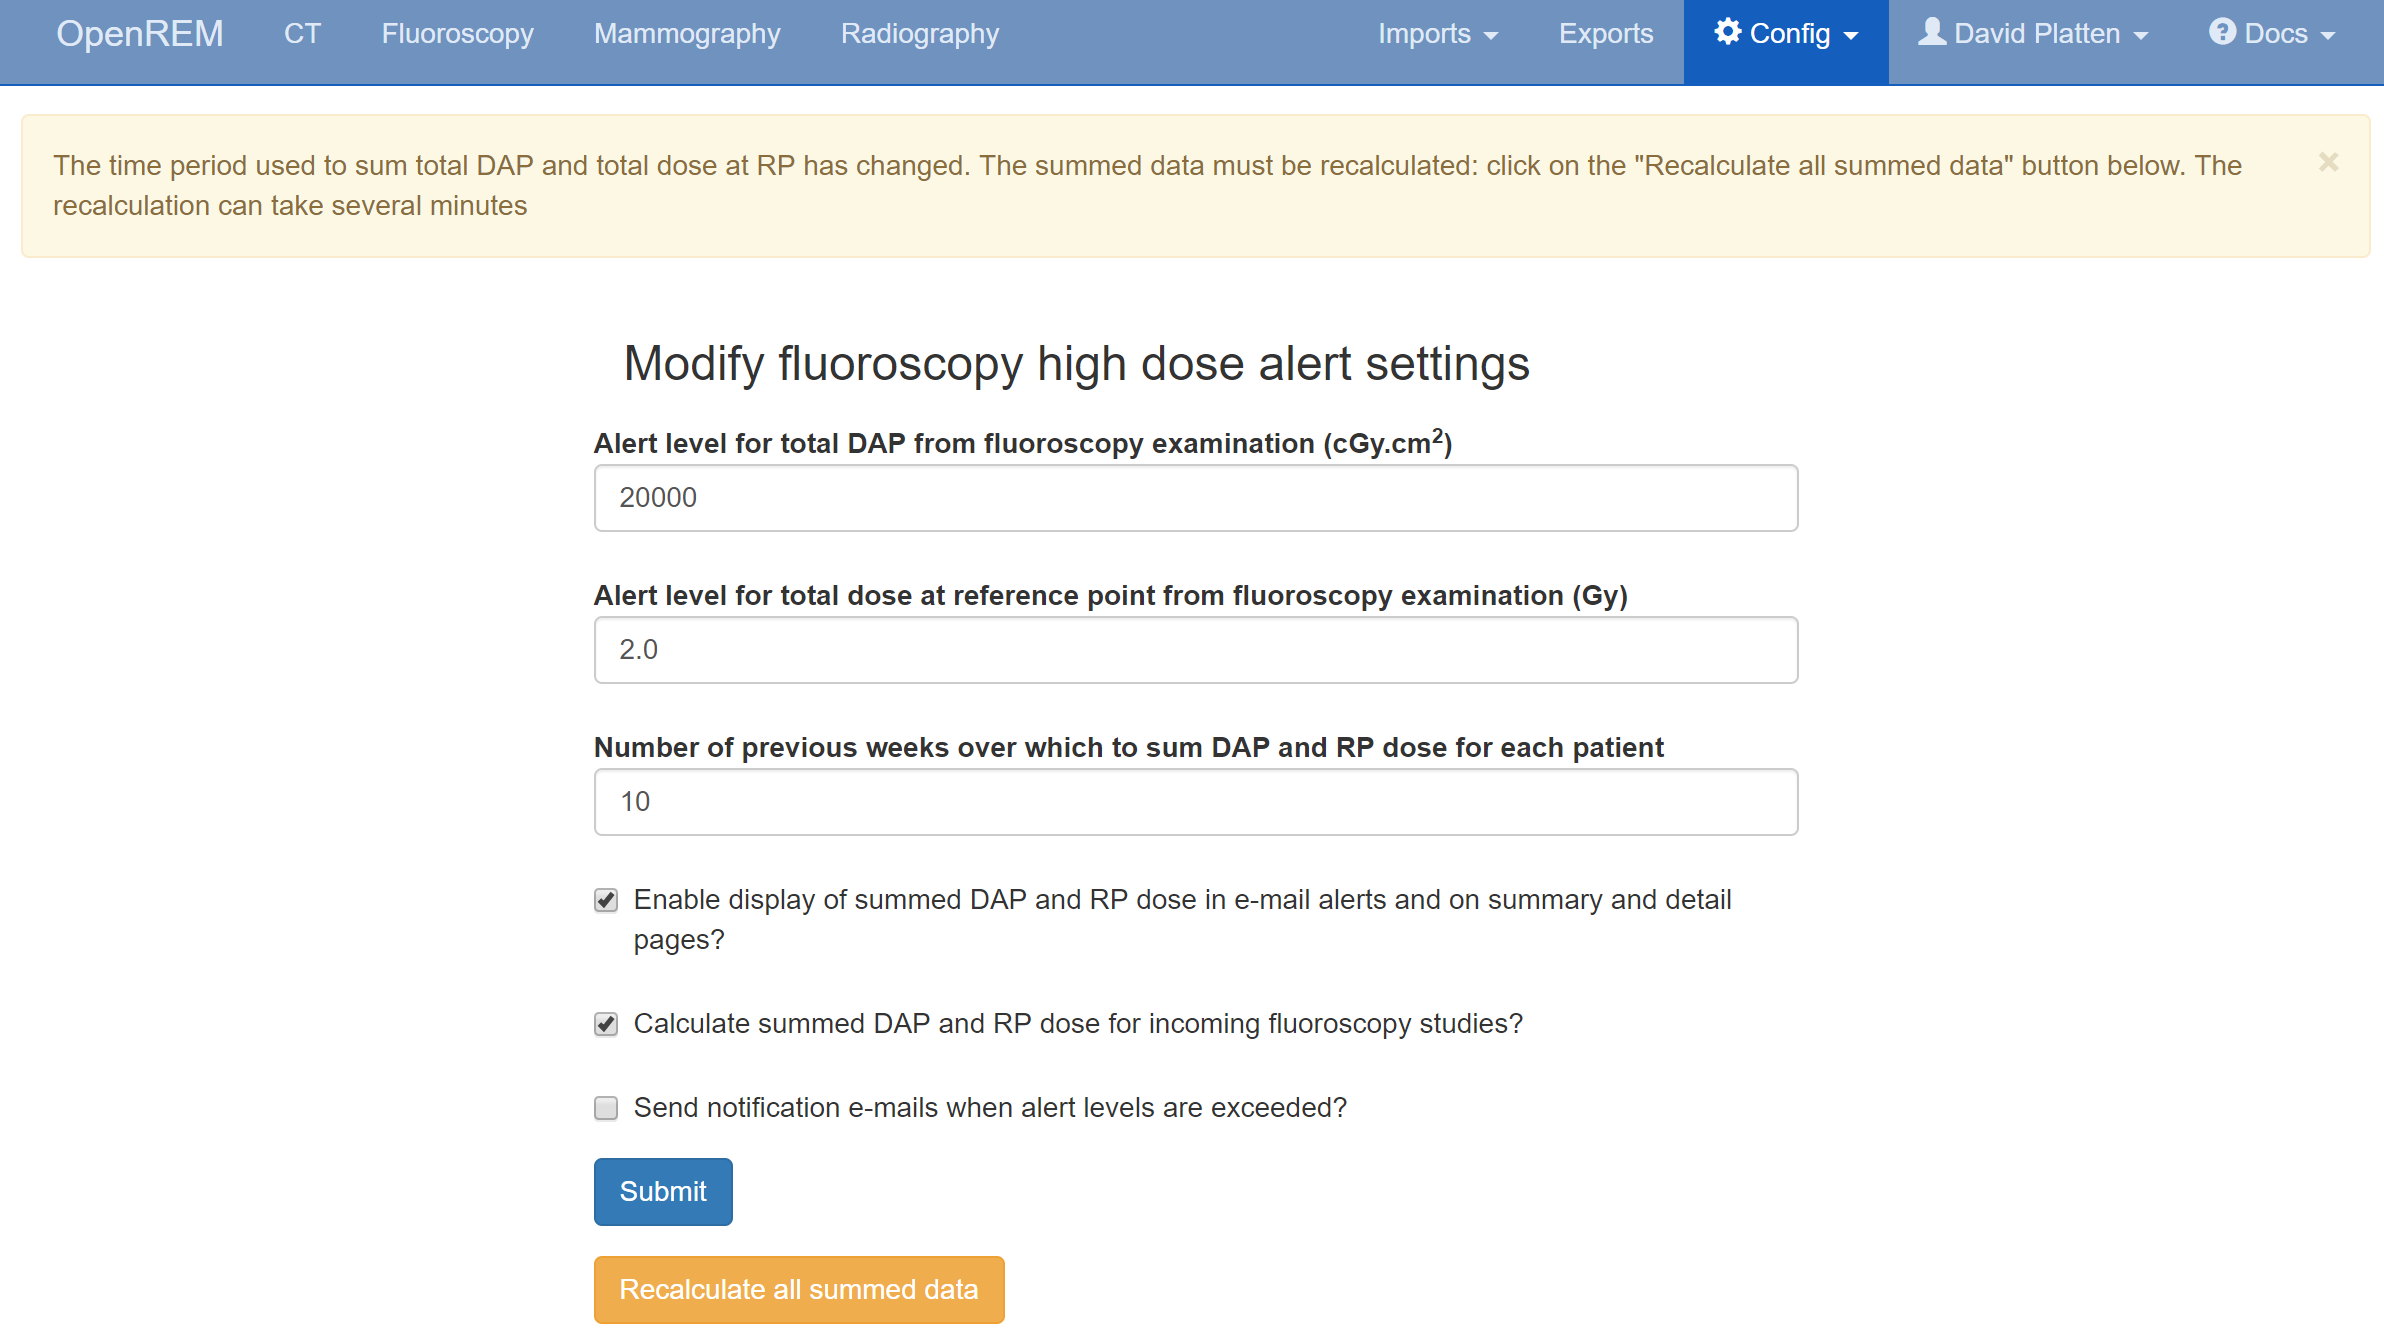
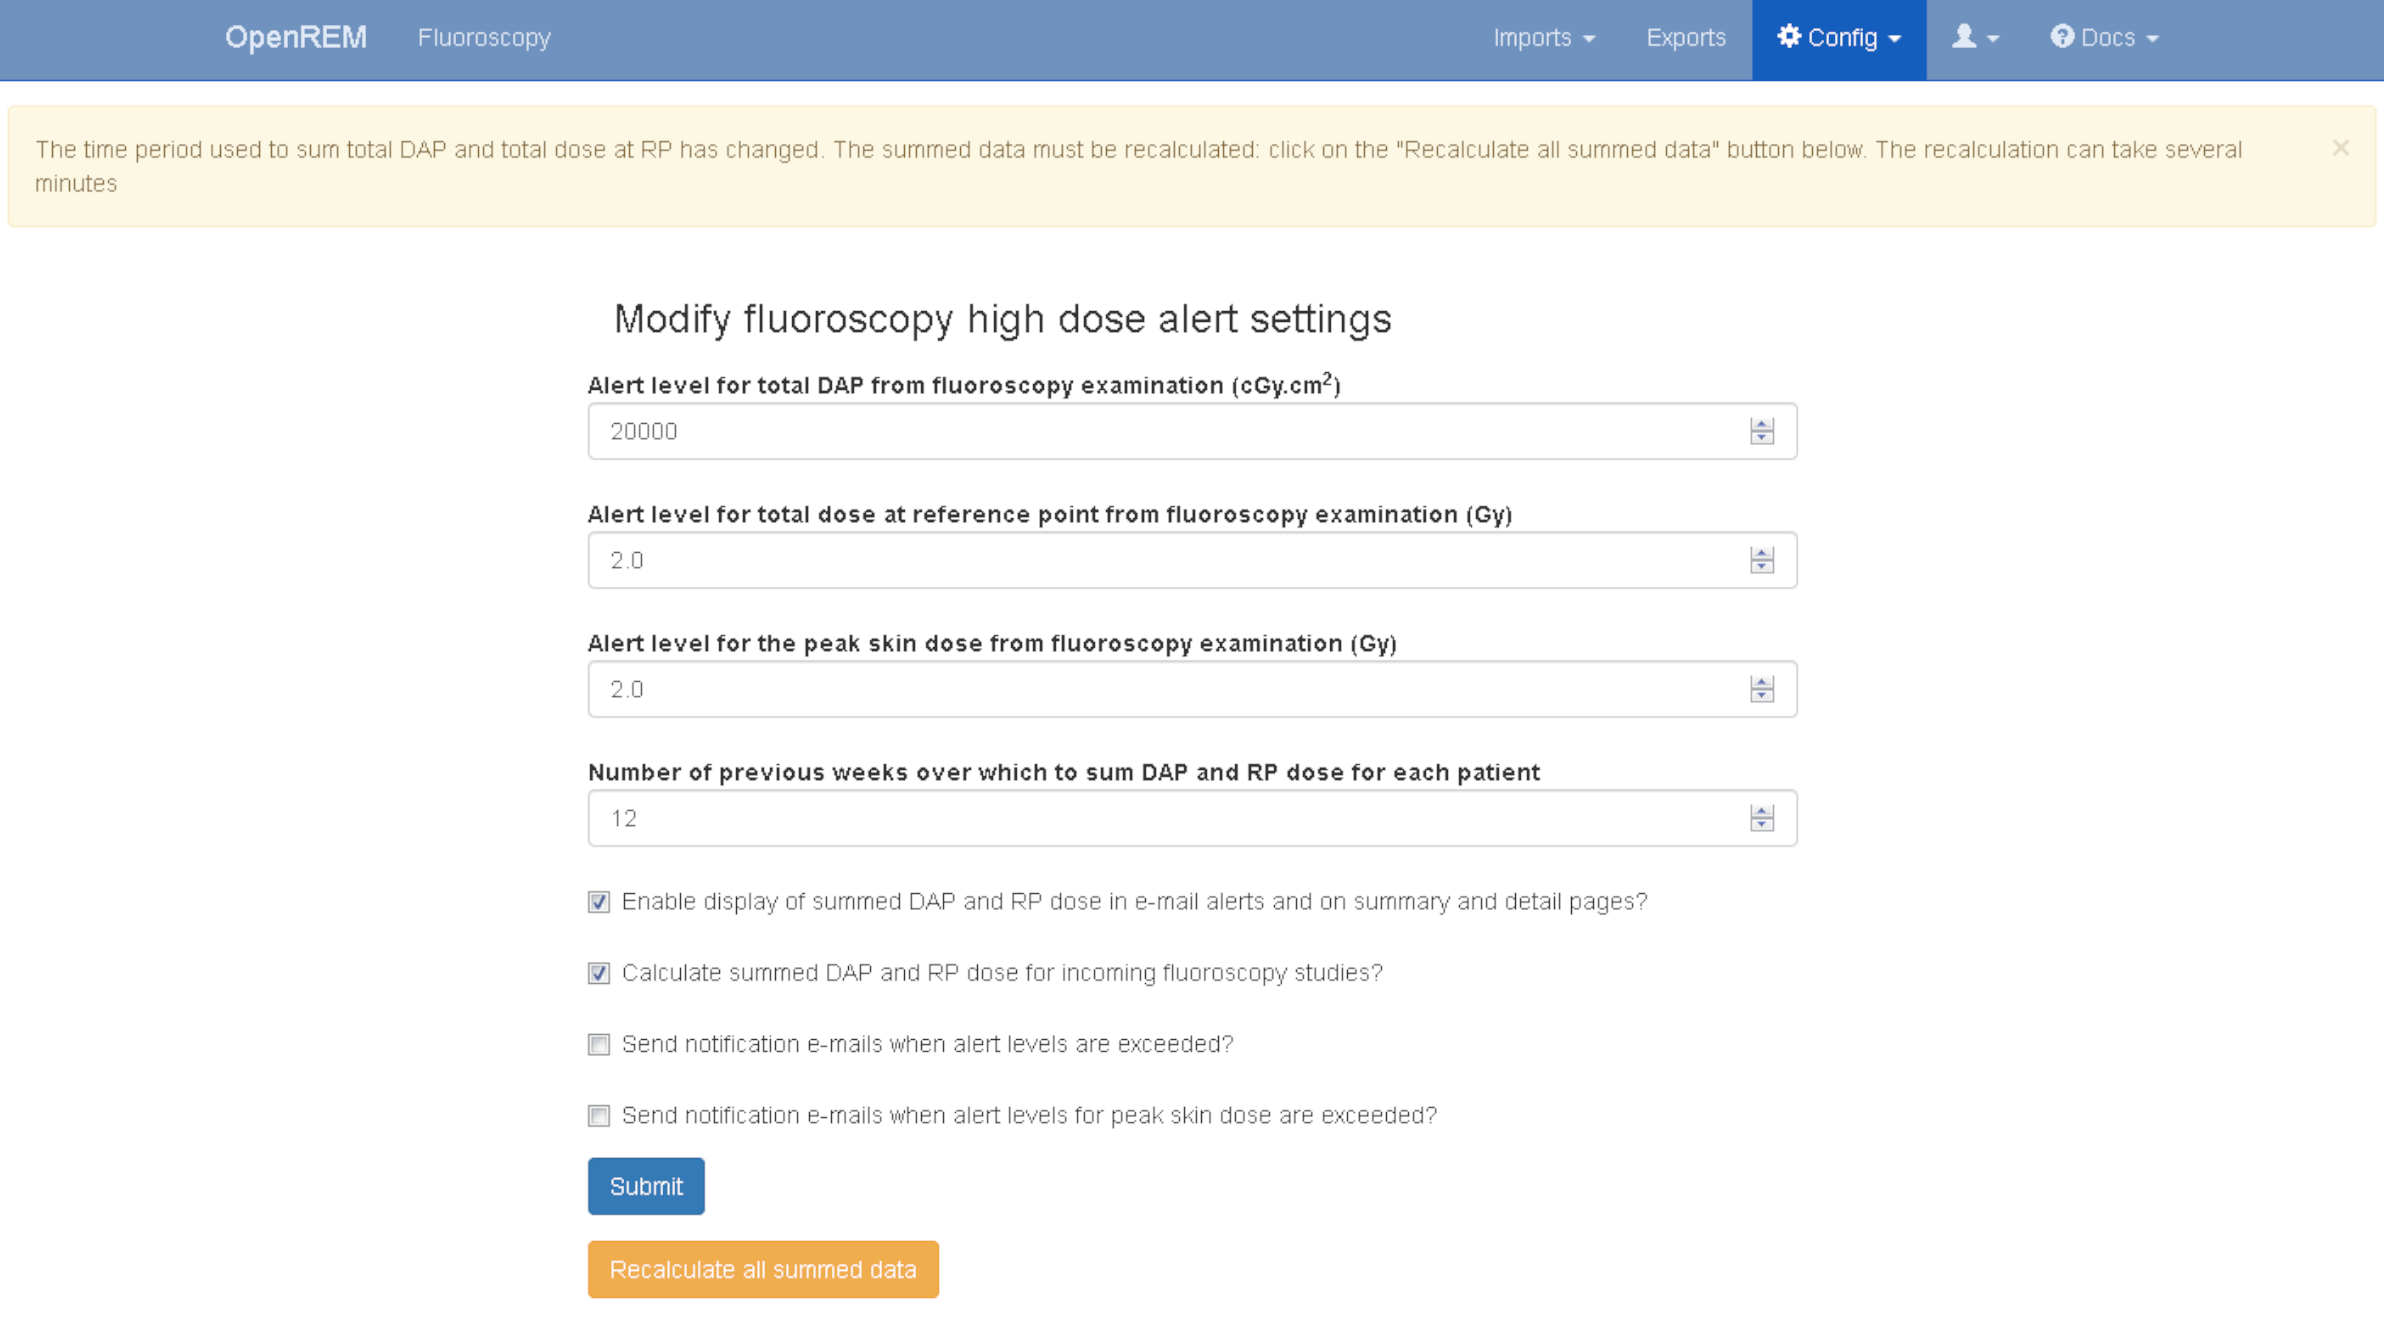
Refs #827
- Updated documentation
- Updated changes.rst

diff --git a/docs/i_fluoro_high_dose_alerts.rst b/docs/i_fluoro_high_dose_alerts.rst
@@ -16,12 +16,12 @@ Alert level configuration
    Figure 1: The ``Config`` menu (user and admin)
 
 The system highlights fluoroscopy studies that have exceeded defined levels of
-DAP and total dose at reference point. These alert levels can be configured by
+DAP, total dose at reference point and peak skin dose. These alert levels can be configured by
 an OpenREM administrator via the `Fluoro alert levels` option in the ``Config``
 menu (figure 1).
 
-The default alert levels are 20000 cGy.cm\ :sup:`2` DAP and 2 Gy total dose at
-reference point (figure 2).
+The default alert levels are 20000 cGy.cm\ :sup:`2` DAP, 2 Gy total dose at
+reference point and 2 Gy peak skin dose(figure 2).
 
 .. figure:: img/fluoroHighDoseAlertSettings.png
    :figwidth: 100%
@@ -61,7 +61,8 @@ for studies with matching patient IDs. When this is activated, for each study
 OpenREM looks for earlier fluoroscopy studies that have taken place that share
 the same patient ID, or encrypted patient ID, and sums the study DAP and total
 dose at reference point values. The time period that is used is configured by
-an OpenREM administrator, and defaults to 12 weeks (figure 2).
+an OpenREM administrator, and defaults to 12 weeks (figure 2). This feature has
+not yet been implemented for the skin dose.
 
 For this feature to work the storage of patient ID or encrypted patient ID must
 be enabled (see the :doc:`patientid` documentation).

diff --git a/docs/changes.rst b/docs/changes.rst
@@ -4,6 +4,7 @@ OpenREM version history
 
 1.0.0b1 (2020-xx-xx)
 --------------------
+* :issue:`827`  SkinDose: Made SkinDose results available in OpenREM and made alert triggering possible
 * :issue:`826`  Code quality: split views to make more manageable and testable
 * :issue:`824`  DICOM Networking: enabled declaration and testing of Orthanc Store SCP in Docker
 * :issue:`821`  Code quality: fixed literal comparisons Docker was complaining about
